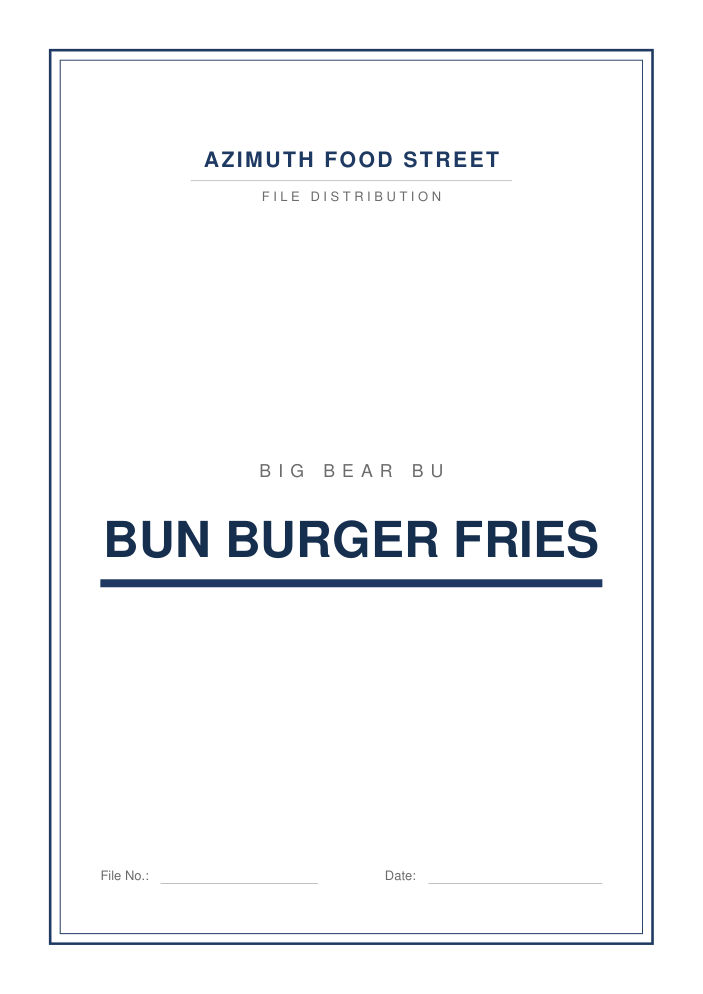
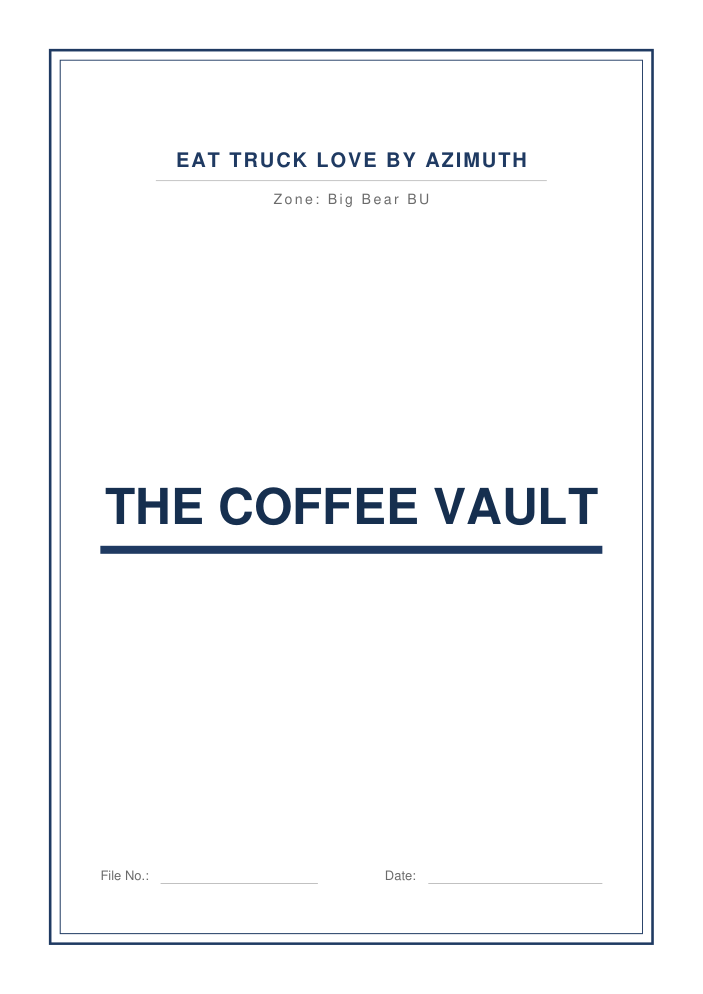
New layout: 'Eat Truck Love by Azimuth' header + 'Zone: <BU>' line, one page per brand

Changed region(s): [[0.1494, 0.4678, 0.8663, 0.5926], [0.239, 0.1247, 0.7468, 0.2183]]

diff --git a/make_separators.py b/make_separators.py
@@ -1,15 +1,14 @@
 #!/usr/bin/env python3
-"""Azimuth Food Street - File Distribution separator pages.
+"""Azimuth Food Street - brand separator pages.
 
-Design matches the supplied template:
+Layout (per the latest instruction):
   * double navy border frame
-  * "AZIMUTH FOOD STREET" header + rule + "FILE DISTRIBUTION" sub-line
-  * a small letter-spaced label (the Business Unit)
-  * a big bold navy title (the brand) with a thick underline bar
-  * "File No." / "Date" blanks at the bottom
+  * TOP   : "EAT TRUCK LOVE BY AZIMUTH"  (+ rule)
+  * BELOW : "Zone: <Business Unit>"
+  * MIDDLE: the brand name (big, bold) with a thick underline bar
+  * BOTTOM: "File No." / "Date" blanks
 
-One separate page is produced for every brand, grouped by Business Unit.
-Each BU also gets its own divider page.
+One separate page per brand.
 """
 
 from reportlab.lib.pagesizes import A4
@@ -19,7 +18,7 @@ from reportlab.pdfgen import canvas
 
 OUT = "Separator_Pages.pdf"
 
-# ---- palette (from the template) ----
+# ---- palette ----
 NAVY = HexColor("#1f3a63")
 NAVY_DARK = HexColor("#17304f")
 GREY = HexColor("#6c6c6c")
@@ -27,10 +26,12 @@ LINE_GREY = HexColor("#b9b9b9")
 
 W, H = A4
 
-# ---- Business Units and their brands (in order) ----
-BUS = [
+TOP_HEADER = "EAT TRUCK LOVE BY AZIMUTH"
+
+# ---- zones (Business Units) and their brands, in order ----
+ZONES = [
     {
-        "bu": "BIG BEAR BU",
+        "zone": "Big Bear BU",
         "brands": [
             "OG PIZZA",
             "BUKHARA2BEIJING",
@@ -42,7 +43,7 @@ BUS = [
         ],
     },
     {
-        "bu": "MELTING POT BU",
+        "zone": "Melting Pot BU",
         "brands": ["BIGG BEAR", "EGGSPERT", "THE CHATPATA AFFAIR", "CROWNEST"],
     },
 ]
@@ -58,17 +59,17 @@ def spaced_centred(c, cx, y, text, font, size, color, char_space):
     for ch, w in zip(text, widths):
         c.drawString(x, y, ch)
         x += w + char_space
+    return total
 
 
-def fit_font_size(c, text, font, max_width, start=58, min_size=20):
-    """Largest size (<= start) whose rendered width fits max_width."""
+def fit_font_size(c, text, font, max_width, start=58, min_size=18):
     size = start
     while size > min_size and c.stringWidth(text, font, size) > max_width:
         size -= 1
     return size
 
 
-def draw_page(c, label, title):
+def draw_page(c, zone, title):
     # ---------- double border ----------
     c.setStrokeColor(NAVY)
     c.setLineWidth(2.2)
@@ -77,26 +78,25 @@ def draw_page(c, label, title):
     c.rect(18 * mm, 18 * mm, W - 36 * mm, H - 36 * mm, stroke=1, fill=0)
 
     # ---------- top header ----------
-    spaced_centred(c, W / 2, H - 50 * mm, "AZIMUTH FOOD STREET",
-                   "Helvetica-Bold", 18, NAVY, 2.0)
+    hdr_width = spaced_centred(c, W / 2, H - 50 * mm, TOP_HEADER,
+                               "Helvetica-Bold", 17, NAVY, 1.6)
+    half = max(hdr_width / 2 + 6 * mm, 46 * mm)
     c.setStrokeColor(LINE_GREY)
     c.setLineWidth(0.7)
-    c.line(W / 2 - 48 * mm, H - 54 * mm, W / 2 + 48 * mm, H - 54 * mm)
-    spaced_centred(c, W / 2, H - 60 * mm, "FILE DISTRIBUTION",
-                   "Helvetica", 11, GREY, 3.0)
+    c.line(W / 2 - half, H - 54 * mm, W / 2 + half, H - 54 * mm)
 
-    # ---------- middle: label + big title ----------
-    spaced_centred(c, W / 2, H / 2 + 6 * mm, label,
-                   "Helvetica", 15, GREY, 6.0)
+    # zone line, just below the header rule
+    spaced_centred(c, W / 2, H - 61 * mm, f"Zone: {zone}",
+                   "Helvetica", 12, GREY, 2.0)
 
-    max_w = W - 36 * mm - 24 * mm  # inside inner frame, with padding
-    size = fit_font_size(c, title, "Helvetica-Bold", max_w, start=60, min_size=22)
+    # ---------- middle: big brand name ----------
+    max_w = W - 36 * mm - 24 * mm
+    size = fit_font_size(c, title, "Helvetica-Bold", max_w, start=60, min_size=20)
     c.setFont("Helvetica-Bold", size)
     c.setFillColor(NAVY_DARK)
-    title_y = H / 2 - 18 * mm
+    title_y = H / 2 - 8 * mm
     c.drawCentredString(W / 2, title_y, title)
 
-    # thick underline bar under the title
     bar_w = min(c.stringWidth(title, "Helvetica-Bold", size) + 6 * mm, max_w)
     c.setFillColor(NAVY)
     c.rect(W / 2 - bar_w / 2, title_y - 9 * mm, bar_w, 2.4 * mm, stroke=0, fill=1)
@@ -105,12 +105,10 @@ def draw_page(c, label, title):
     c.setFont("Helvetica", 11)
     c.setFillColor(GREY)
     base_y = 34 * mm
-    # File No.
     c.drawString(30 * mm, base_y, "File No.:")
     c.setStrokeColor(LINE_GREY)
     c.setLineWidth(0.7)
     c.line(48 * mm, base_y - 1 * mm, 95 * mm, base_y - 1 * mm)
-    # Date
     c.drawString(115 * mm, base_y, "Date:")
     c.line(128 * mm, base_y - 1 * mm, 180 * mm, base_y - 1 * mm)
 
@@ -119,16 +117,14 @@ def draw_page(c, label, title):
 
 def main():
     c = canvas.Canvas(OUT, pagesize=A4)
-    c.setTitle("Azimuth Food Street - File Distribution Separators")
-    for item in BUS:
-        # BU divider page
-        draw_page(c, "BUSINESS UNIT", item["bu"])
-        # one page per brand
-        for brand in item["brands"]:
-            draw_page(c, item["bu"], brand)
+    c.setTitle("Azimuth Food Street - Brand Separators")
+    n = 0
+    for z in ZONES:
+        for brand in z["brands"]:
+            draw_page(c, z["zone"], brand)
+            n += 1
     c.save()
-    pages = sum(1 + len(i["brands"]) for i in BUS)
-    print("Wrote", OUT, "with", pages, "pages")
+    print("Wrote", OUT, "with", n, "pages")
 
 
 if __name__ == "__main__":
